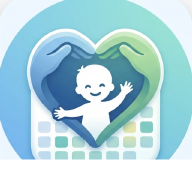
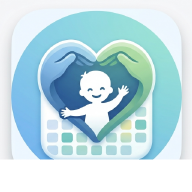
fix(landing): reenquadra o ícone para o círculo completo + cache-bust (#28)
Mesmo reenquadramento do app: disco/círculo inteiro visível, sem clipar a base
(o logo do cabeçalho puxa icon-192.png). Adiciona ?v=2 nas referências de
favicon.png e icon-192.png em todas as páginas para o navegador buscar a versão
nova na hora (favicon é cache teimoso). icon-512/192/favicon por downscale.

Claude-Session: https://claude.ai/code/session_01JpNVmcNR67BgkZw9XXszVk

diff --git a/public/blog/modelos-de-rotina-guarda-compartilhada.html b/public/blog/modelos-de-rotina-guarda-compartilhada.html
@@ -6,7 +6,7 @@
     <title>Modelos de rotina de convivência: semana alternada, 2-2-3 e mais</title>
     <meta name="description" content="Conheça os principais modelos de rotina de convivência na guarda compartilhada — semana sim/semana não, 2-2-3, 5-2 e dias fixos — com exemplos visuais para escolher o seu." />
     <link rel="canonical" href="https://guardacompartilhada.com/blog/modelos-de-rotina-guarda-compartilhada.html" />
-    <link rel="icon" type="image/png" href="/favicon.png" />
+    <link rel="icon" type="image/png" href="/favicon.png?v=2" />
     <meta name="theme-color" content="#03173d" />
     <meta property="og:type" content="article" />
     <meta property="og:locale" content="pt_BR" />
@@ -120,7 +120,7 @@
 
 <header>
     <div class="wrap nav">
-        <a class="brand" href="/"><img src="/icon-192.png" alt="" width="32" height="32" /> Guarda Compartilhada</a>
+        <a class="brand" href="/"><img src="/icon-192.png?v=2" alt="" width="32" height="32" /> Guarda Compartilhada</a>
         <nav class="nav-links" aria-label="Seções">
             <a href="/#como-funciona">Como funciona</a>
             <a href="/#beneficios">Benefícios</a>

diff --git a/public/blog/como-funciona-guarda-compartilhada.html b/public/blog/como-funciona-guarda-compartilhada.html
@@ -6,7 +6,7 @@
     <title>Como funciona a guarda compartilhada: o guia completo</title>
     <meta name="description" content="Guia completo sobre guarda compartilhada no Brasil: o que é, como é definida, direitos e deveres dos responsáveis, pensão e como organizar a convivência." />
     <link rel="canonical" href="https://guardacompartilhada.com/blog/como-funciona-guarda-compartilhada.html" />
-    <link rel="icon" type="image/png" href="/favicon.png" />
+    <link rel="icon" type="image/png" href="/favicon.png?v=2" />
     <meta name="theme-color" content="#03173d" />
     <meta property="og:type" content="article" />
     <meta property="og:locale" content="pt_BR" />
@@ -120,7 +120,7 @@
 
 <header>
     <div class="wrap nav">
-        <a class="brand" href="/"><img src="/icon-192.png" alt="" width="32" height="32" /> Guarda Compartilhada</a>
+        <a class="brand" href="/"><img src="/icon-192.png?v=2" alt="" width="32" height="32" /> Guarda Compartilhada</a>
         <nav class="nav-links" aria-label="Seções">
             <a href="/#como-funciona">Como funciona</a>
             <a href="/#beneficios">Benefícios</a>

diff --git a/public/blog/como-montar-calendario-guarda-compartilhada.html b/public/blog/como-montar-calendario-guarda-compartilhada.html
@@ -6,7 +6,7 @@
     <title>Como montar um calendário de guarda compartilhada (passo a passo)</title>
     <meta name="description" content="Guia prático para montar o calendário de convivência na guarda compartilhada: modelos de divisão de dias, feriados e férias, e como registrar tudo sem conflito." />
     <link rel="canonical" href="https://guardacompartilhada.com/blog/como-montar-calendario-guarda-compartilhada.html" />
-    <link rel="icon" type="image/png" href="/favicon.png" />
+    <link rel="icon" type="image/png" href="/favicon.png?v=2" />
     <meta name="theme-color" content="#03173d" />
 
     <meta property="og:type" content="article" />
@@ -127,7 +127,7 @@
 
 <header>
     <div class="wrap nav">
-        <a class="brand" href="/"><img src="/icon-192.png" alt="" width="32" height="32" /> Guarda Compartilhada</a>
+        <a class="brand" href="/"><img src="/icon-192.png?v=2" alt="" width="32" height="32" /> Guarda Compartilhada</a>
         <nav class="nav-links" aria-label="Seções">
             <a href="/#como-funciona">Como funciona</a>
             <a href="/#beneficios">Benefícios</a>

diff --git a/public/blog/guarda-compartilhada-x-guarda-alternada.html b/public/blog/guarda-compartilhada-x-guarda-alternada.html
@@ -6,7 +6,7 @@
     <title>Guarda compartilhada x guarda alternada: qual a diferença?</title>
     <meta name="description" content="Entenda a diferença entre guarda compartilhada, alternada e unilateral: quem decide pela criança em cada regime, o que diz a lei e os mitos mais comuns." />
     <link rel="canonical" href="https://guardacompartilhada.com/blog/guarda-compartilhada-x-guarda-alternada.html" />
-    <link rel="icon" type="image/png" href="/favicon.png" />
+    <link rel="icon" type="image/png" href="/favicon.png?v=2" />
     <meta name="theme-color" content="#03173d" />
 
     <meta property="og:type" content="article" />
@@ -127,7 +127,7 @@
 
 <header>
     <div class="wrap nav">
-        <a class="brand" href="/"><img src="/icon-192.png" alt="" width="32" height="32" /> Guarda Compartilhada</a>
+        <a class="brand" href="/"><img src="/icon-192.png?v=2" alt="" width="32" height="32" /> Guarda Compartilhada</a>
         <nav class="nav-links" aria-label="Seções">
             <a href="/#como-funciona">Como funciona</a>
             <a href="/#beneficios">Benefícios</a>

diff --git a/public/blog/index.html b/public/blog/index.html
@@ -6,7 +6,7 @@
     <title>Blog — Guarda Compartilhada: guias sobre convivência e rotina dos filhos</title>
     <meta name="description" content="Guias práticos sobre guarda compartilhada: como montar o calendário de convivência, diferença entre guarda compartilhada e alternada, e como reduzir conflito." />
     <link rel="canonical" href="https://guardacompartilhada.com/blog/" />
-    <link rel="icon" type="image/png" href="/favicon.png" />
+    <link rel="icon" type="image/png" href="/favicon.png?v=2" />
     <meta name="theme-color" content="#03173d" />
 
     <meta property="og:type" content="website" />
@@ -68,7 +68,7 @@
 
 <header>
     <div class="wrap nav">
-        <a class="brand" href="/"><img src="/icon-192.png" alt="" width="32" height="32" /> Guarda Compartilhada</a>
+        <a class="brand" href="/"><img src="/icon-192.png?v=2" alt="" width="32" height="32" /> Guarda Compartilhada</a>
         <nav class="nav-links" aria-label="Seções">
             <a href="/#como-funciona">Como funciona</a>
             <a href="/#beneficios">Benefícios</a>

diff --git a/public/index.html b/public/index.html
@@ -9,8 +9,8 @@
     <meta name="author" content="Guarda Compartilhada" />
     <meta name="robots" content="index, follow, max-image-preview:large" />
     <link rel="canonical" href="https://guardacompartilhada.com/" />
-    <link rel="icon" type="image/png" href="favicon.png" />
-    <link rel="apple-touch-icon" sizes="192x192" href="icon-192.png" />
+    <link rel="icon" type="image/png" href="favicon.png?v=2" />
+    <link rel="apple-touch-icon" sizes="192x192" href="icon-192.png?v=2" />
     <meta name="theme-color" content="#03173d" />
 
     <!-- Open Graph / social sharing -->
@@ -367,7 +367,7 @@
 <header>
     <div class="wrap nav">
         <a class="brand" href="/">
-            <img src="icon-192.png" alt="" width="32" height="32" />
+            <img src="icon-192.png?v=2" alt="" width="32" height="32" />
             Guarda Compartilhada
         </a>
         <nav class="nav-links" aria-label="Seções">

diff --git a/public/privacidade.html b/public/privacidade.html
@@ -5,7 +5,7 @@
     <meta name="viewport" content="width=device-width, initial-scale=1.0" />
     <title>Política de Privacidade — Guarda Compartilhada</title>
     <meta name="robots" content="noindex" />
-    <link rel="icon" type="image/png" href="favicon.png" />
+    <link rel="icon" type="image/png" href="favicon.png?v=2" />
     <style>
         * { margin: 0; padding: 0; box-sizing: border-box; }
         body { font-family: system-ui, -apple-system, "Segoe UI", Roboto, sans-serif; color: #1e293b; background: #f8fafc; line-height: 1.7; }

diff --git a/public/termos.html b/public/termos.html
@@ -5,7 +5,7 @@
     <meta name="viewport" content="width=device-width, initial-scale=1.0" />
     <title>Termos de Uso — Guarda Compartilhada</title>
     <meta name="robots" content="noindex" />
-    <link rel="icon" type="image/png" href="favicon.png" />
+    <link rel="icon" type="image/png" href="favicon.png?v=2" />
     <style>
         * { margin: 0; padding: 0; box-sizing: border-box; }
         body { font-family: system-ui, -apple-system, "Segoe UI", Roboto, sans-serif; color: #1e293b; background: #f8fafc; line-height: 1.7; }
